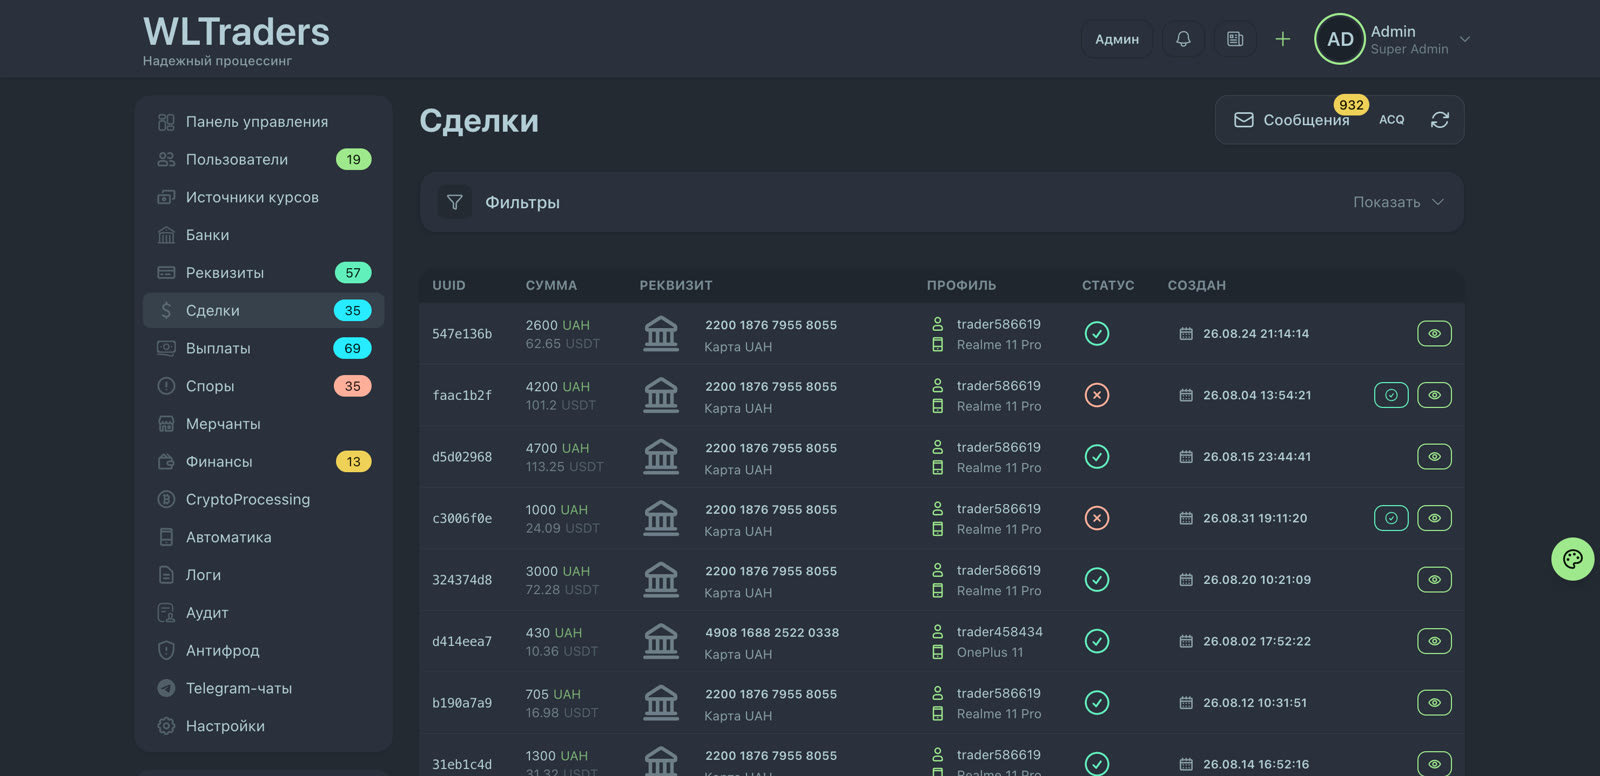
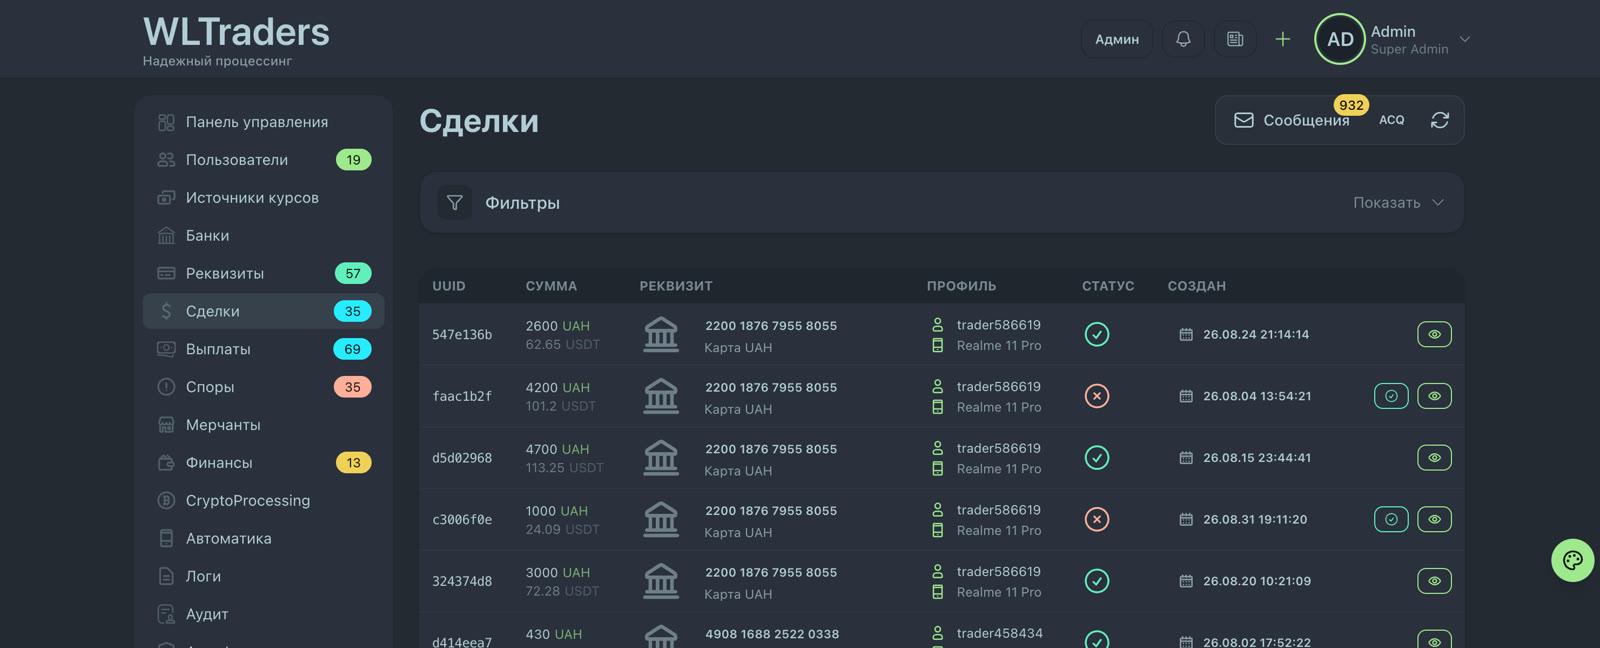
fix: preserve full width of landing screenshots

diff --git a/index.html b/index.html
@@ -400,7 +400,7 @@
       .hero-actions { margin-top: 26px; }
     }
     .screen-viewer { position: relative; width: 100%; padding: 10px; border: 1px solid var(--line); border-radius: 2px; background: rgba(240, 240, 250, .025); display: flex; flex-direction: column; justify-content: center; }
-    .screen-stage { position: relative; width: 100%; aspect-ratio: 1600 / 776; overflow: hidden; padding: 0; border: 0; border-radius: 2px; color: inherit; background: #08090c; cursor: pointer; text-align: initial; }
+    .screen-stage { position: relative; width: 100%; aspect-ratio: 1600 / 648; overflow: hidden; padding: 0; border: 0; border-radius: 2px; color: inherit; background: #08090c; cursor: pointer; text-align: initial; }
     .screen-stage img { position: absolute; inset: 0; width: 100%; height: 100%; object-fit: cover; object-position: top; opacity: 0; transition: opacity .85s ease; filter: grayscale(0.72) contrast(1.06) brightness(1.02); }
     .screen-stage img.active { opacity: 1; }
 
@@ -491,16 +491,16 @@
 
           <div class="screen-viewer" role="group" aria-label="Скриншоты интерфейса WLTraders">
             <button class="screen-stage" type="button" aria-label="Показать следующий скриншот интерфейса">
-              <img src="assets/screens/1.jpg" alt="Панель управления WLTraders" width="1600" height="776" class="active" decoding="async" fetchpriority="high" aria-hidden="false">
-              <img src="assets/screens/2.jpg" alt="Интерфейс WLTraders — экран 2" width="1600" height="776" loading="lazy" decoding="async" aria-hidden="true">
-              <img src="assets/screens/3.jpg" alt="Интерфейс WLTraders — экран 3" width="1600" height="776" loading="lazy" decoding="async" aria-hidden="true">
-              <img src="assets/screens/4.jpg" alt="Интерфейс WLTraders — экран 4" width="1600" height="776" loading="lazy" decoding="async" aria-hidden="true">
-              <img src="assets/screens/5.jpg" alt="Интерфейс WLTraders — экран 5" width="1600" height="776" loading="lazy" decoding="async" aria-hidden="true">
-              <img src="assets/screens/6.jpg" alt="Интерфейс WLTraders — экран 6" width="1600" height="776" loading="lazy" decoding="async" aria-hidden="true">
-              <img src="assets/screens/7.jpg" alt="Интерфейс WLTraders — экран 7" width="1600" height="776" loading="lazy" decoding="async" aria-hidden="true">
-              <img src="assets/screens/8.jpg" alt="Интерфейс WLTraders — экран 8" width="1600" height="776" loading="lazy" decoding="async" aria-hidden="true">
-              <img src="assets/screens/9.jpg" alt="Интерфейс WLTraders — экран 9" width="1600" height="776" loading="lazy" decoding="async" aria-hidden="true">
-              <img src="assets/screens/10.jpg" alt="Интерфейс WLTraders — экран 10" width="1600" height="776" loading="lazy" decoding="async" aria-hidden="true">
+              <img src="assets/screens/1.jpg" alt="Панель управления WLTraders" width="1600" height="648" class="active" decoding="async" fetchpriority="high" aria-hidden="false">
+              <img src="assets/screens/2.jpg" alt="Интерфейс WLTraders — экран 2" width="1600" height="648" decoding="async" aria-hidden="true">
+              <img src="assets/screens/3.jpg" alt="Интерфейс WLTraders — экран 3" width="1600" height="648" decoding="async" aria-hidden="true">
+              <img src="assets/screens/4.jpg" alt="Интерфейс WLTraders — экран 4" width="1600" height="648" decoding="async" aria-hidden="true">
+              <img src="assets/screens/5.jpg" alt="Интерфейс WLTraders — экран 5" width="1600" height="648" decoding="async" aria-hidden="true">
+              <img src="assets/screens/6.jpg" alt="Интерфейс WLTraders — экран 6" width="1600" height="648" decoding="async" aria-hidden="true">
+              <img src="assets/screens/7.jpg" alt="Интерфейс WLTraders — экран 7" width="1600" height="648" decoding="async" aria-hidden="true">
+              <img src="assets/screens/8.jpg" alt="Интерфейс WLTraders — экран 8" width="1600" height="648" decoding="async" aria-hidden="true">
+              <img src="assets/screens/9.jpg" alt="Интерфейс WLTraders — экран 9" width="1600" height="648" decoding="async" aria-hidden="true">
+              <img src="assets/screens/10.jpg" alt="Интерфейс WLTraders — экран 10" width="1600" height="648" decoding="async" aria-hidden="true">
             </button>
           </div>
         </div>
